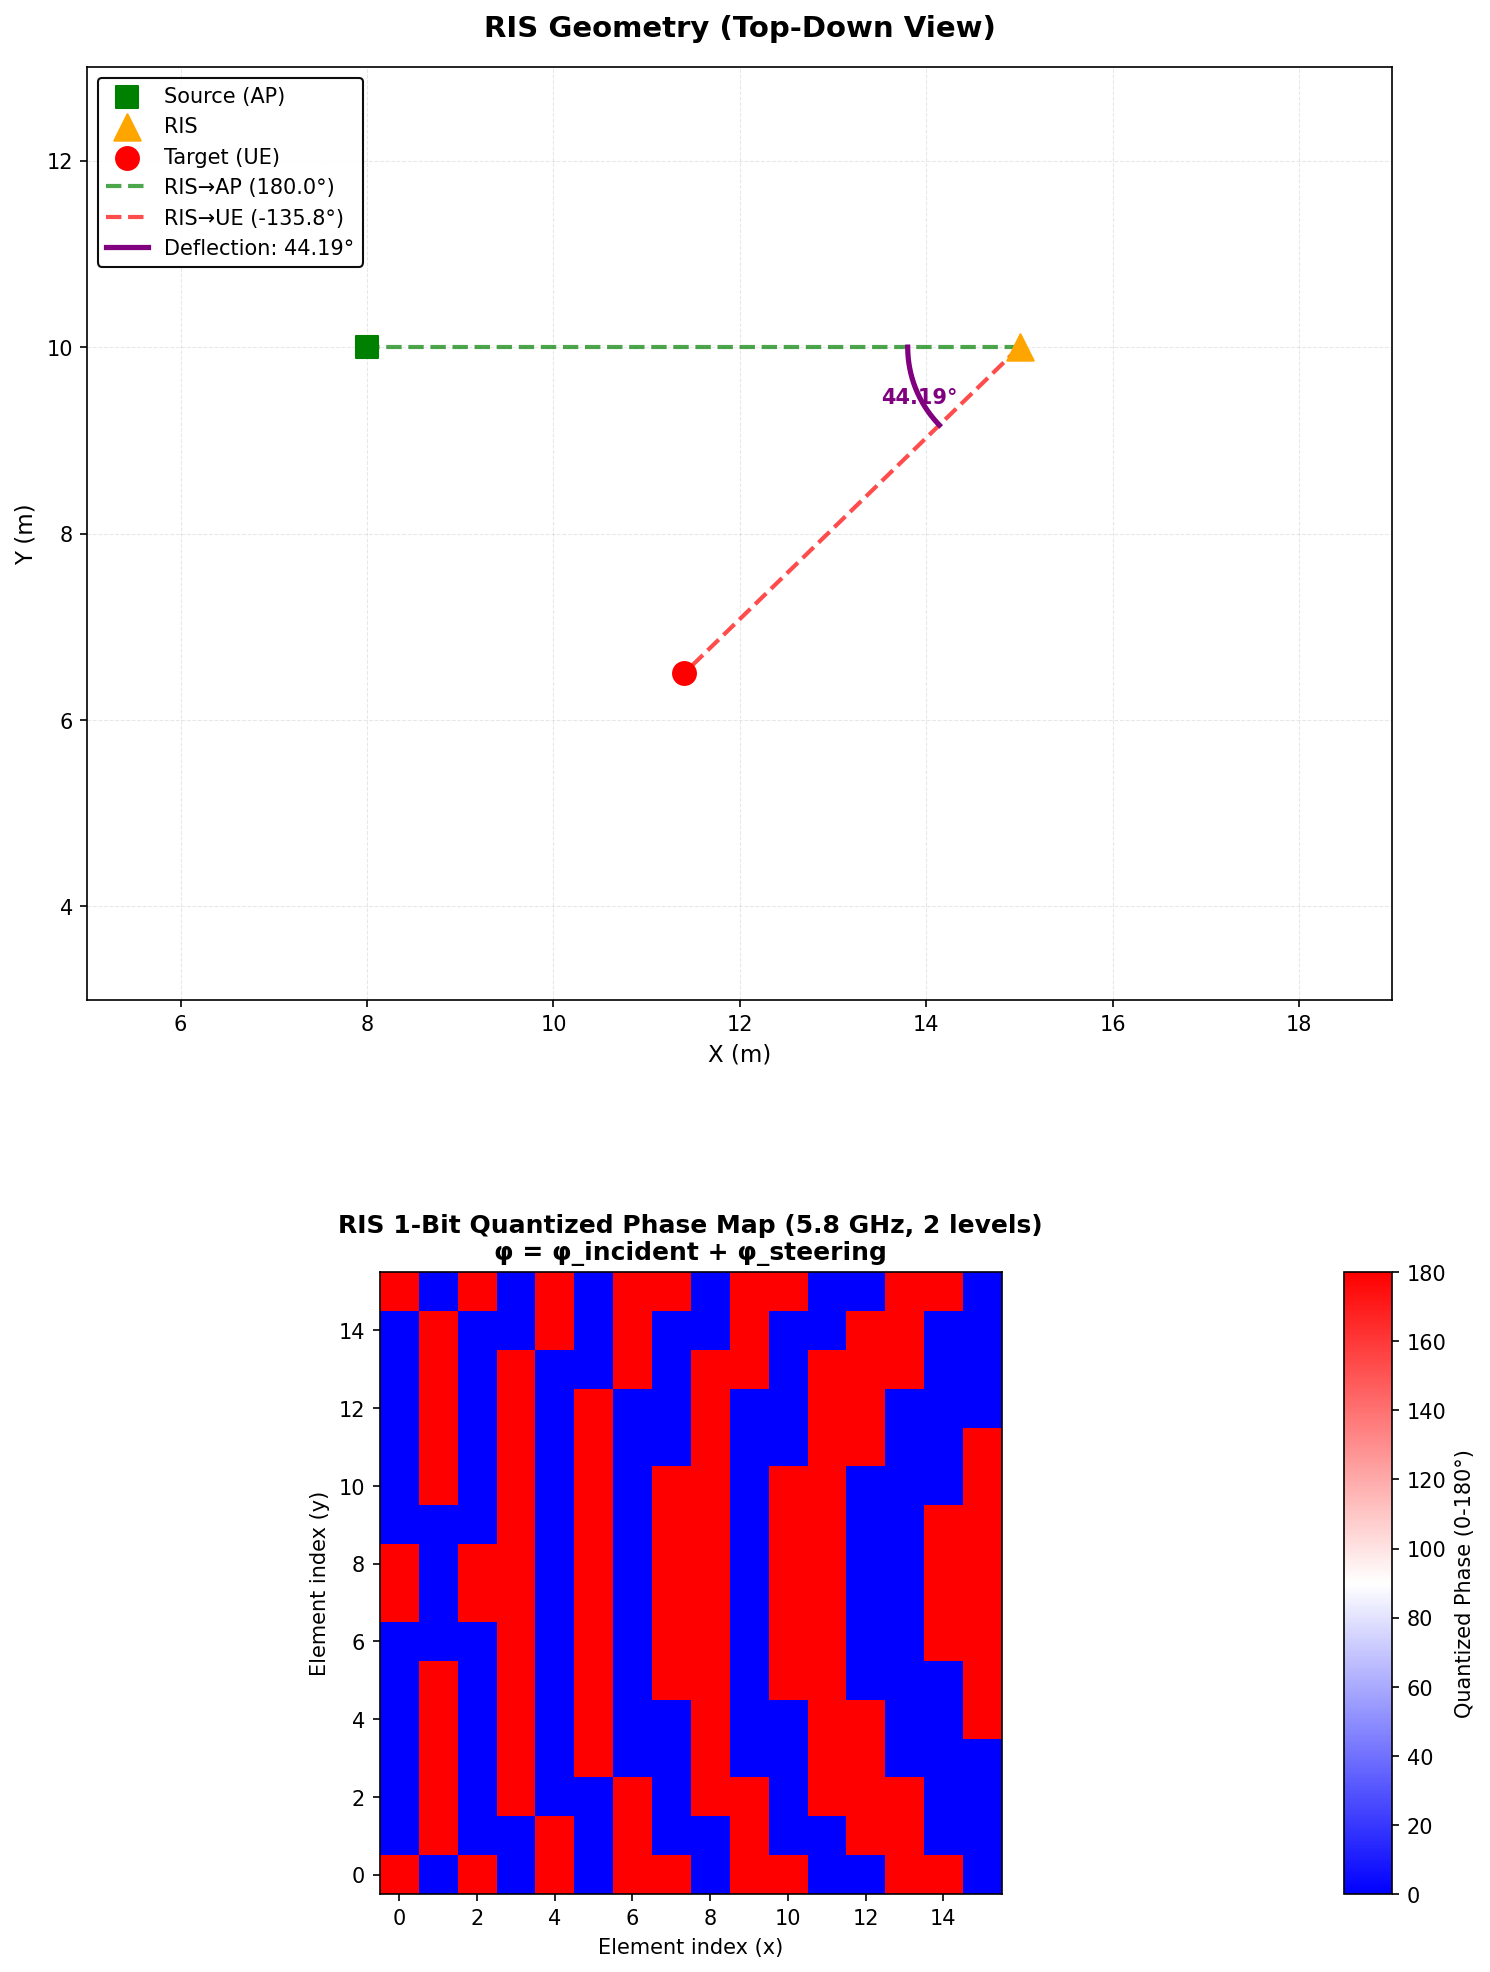
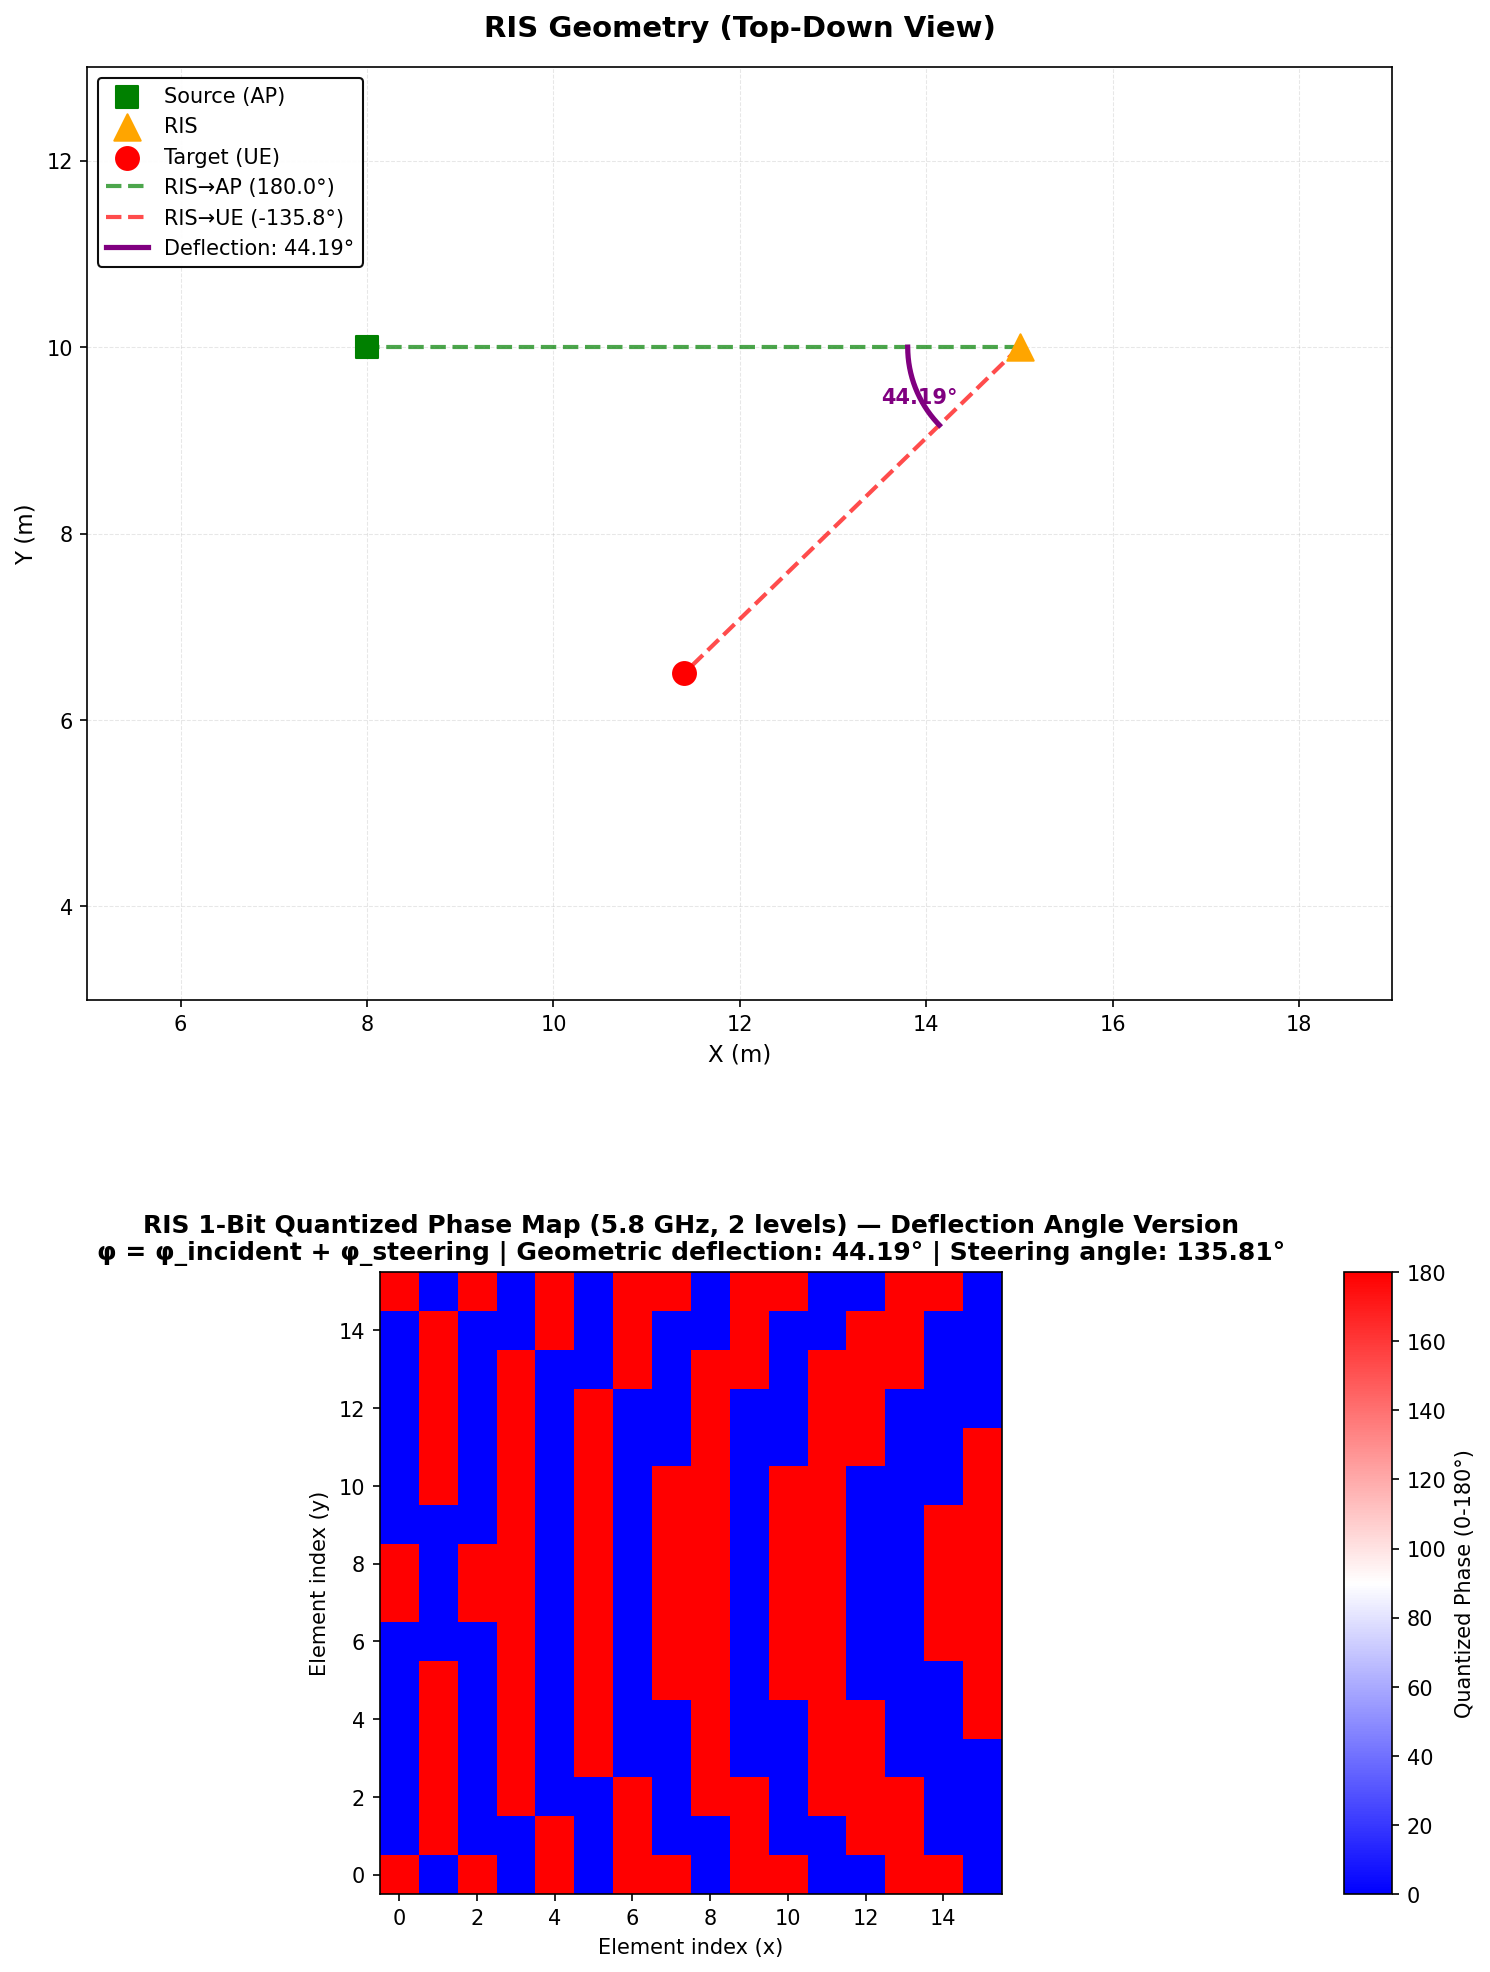
Update RIS phase pattern visualization and deflection logic
Enhanced phase map titles in pattern_gen_3d.py and pattern_gen_def.py to include geometric and steering angles for improved clarity. Added a new script (pattern_gen_def - Copy.py) for explicit deflection angle decomposition and updated related PNG images to reflect these changes.

Changed region(s): [[0.0617, 0.6187, 0.8644, 0.6496]]

diff --git a/risformula/pattern_gen_3d.py b/risformula/pattern_gen_3d.py
@@ -362,7 +362,8 @@ ax4 = fig2.add_subplot(gs2[1, 0])
 vmax_phase = 360.0 / (2 ** n_bit) * ((2 ** n_bit) - 1)
 
 im4 = ax4.imshow(phase_quant_deg, cmap='bwr', origin='lower', vmin=0, vmax=vmax_phase)
-ax4.set_title(f'RIS {n_bit}-Bit Quantized Phase Map (5.8 GHz, {num_levels} levels) — 3D Beamforming\nφ = φ_incident + φ_az + φ_el',
+ax4.set_title(f'RIS {n_bit}-Bit Quantized Phase Map (5.8 GHz, {num_levels} levels) — 3D Beamforming\n'
+              f'φ = φ_incident + φ_az + φ_el | Geometric az: {abs_diff:.2f}° | Steering az: {np.degrees(azimuth_deflection_rad):.2f}° | Steering el: {np.degrees(elevation_deflection_rad):.2f}°',
               fontsize=12, fontweight='bold')
 ax4.set_xlabel('Element index (x)', fontsize=10)
 ax4.set_ylabel('Element index (y)', fontsize=10)